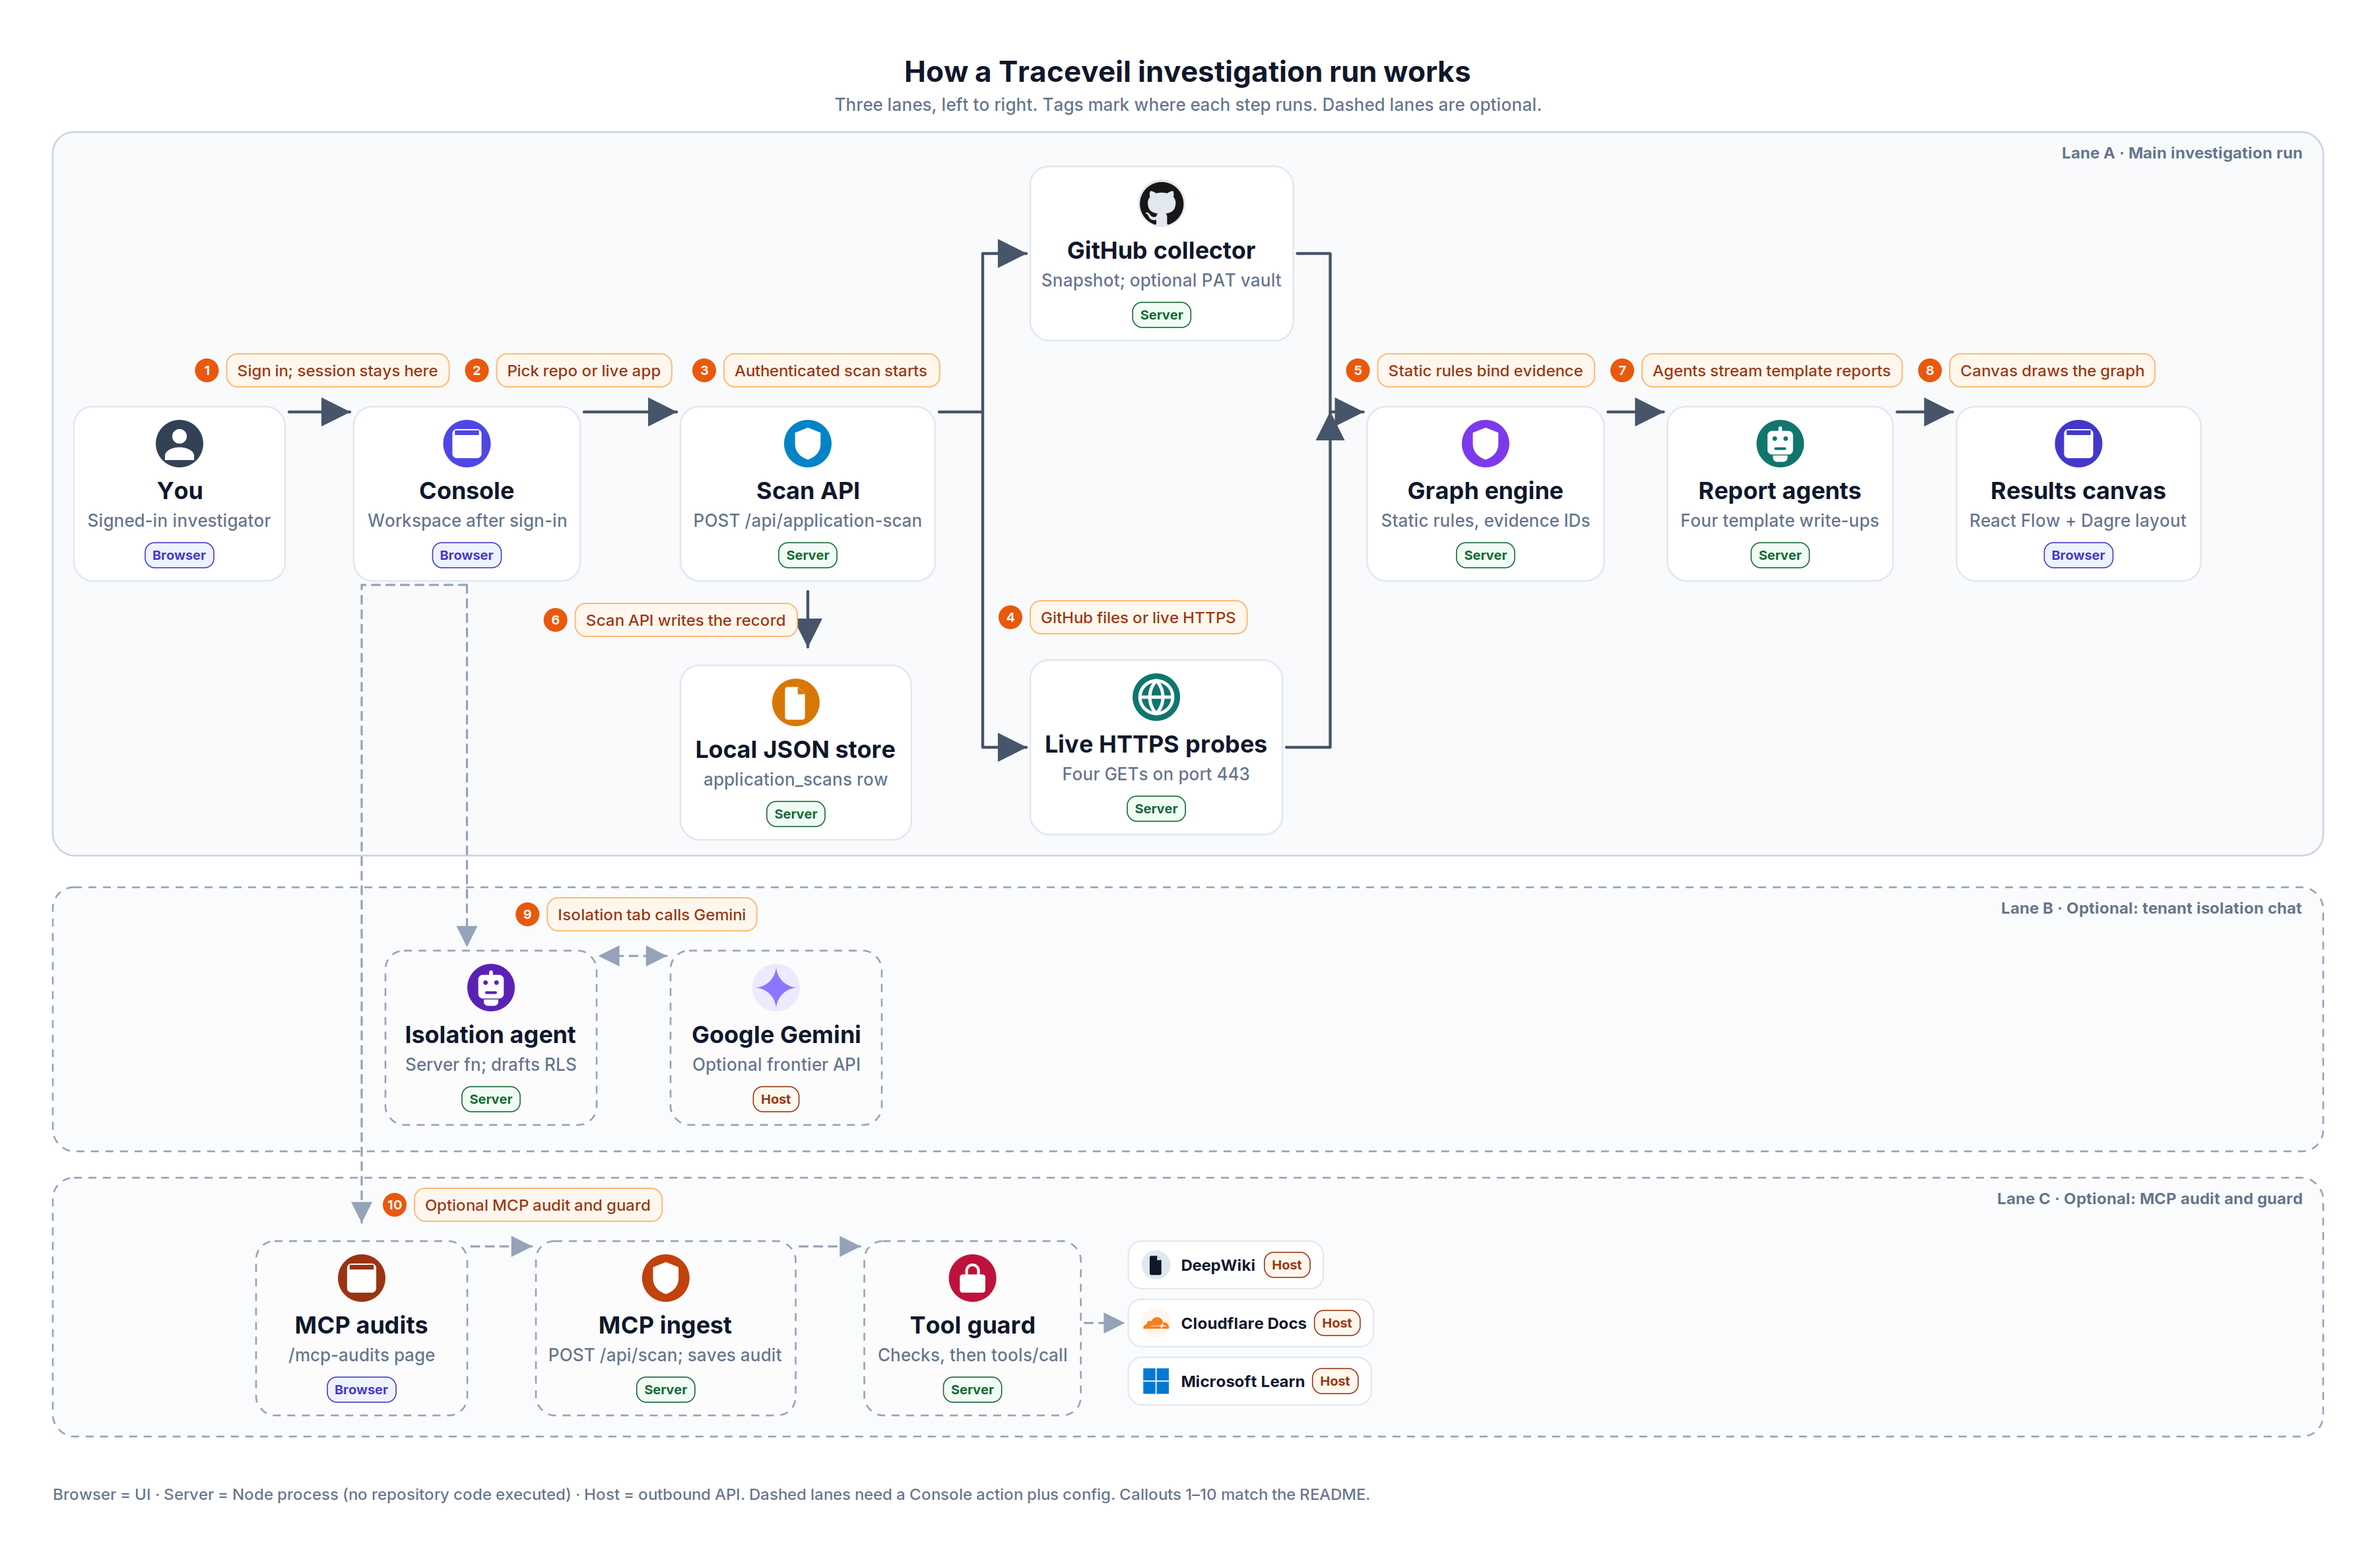
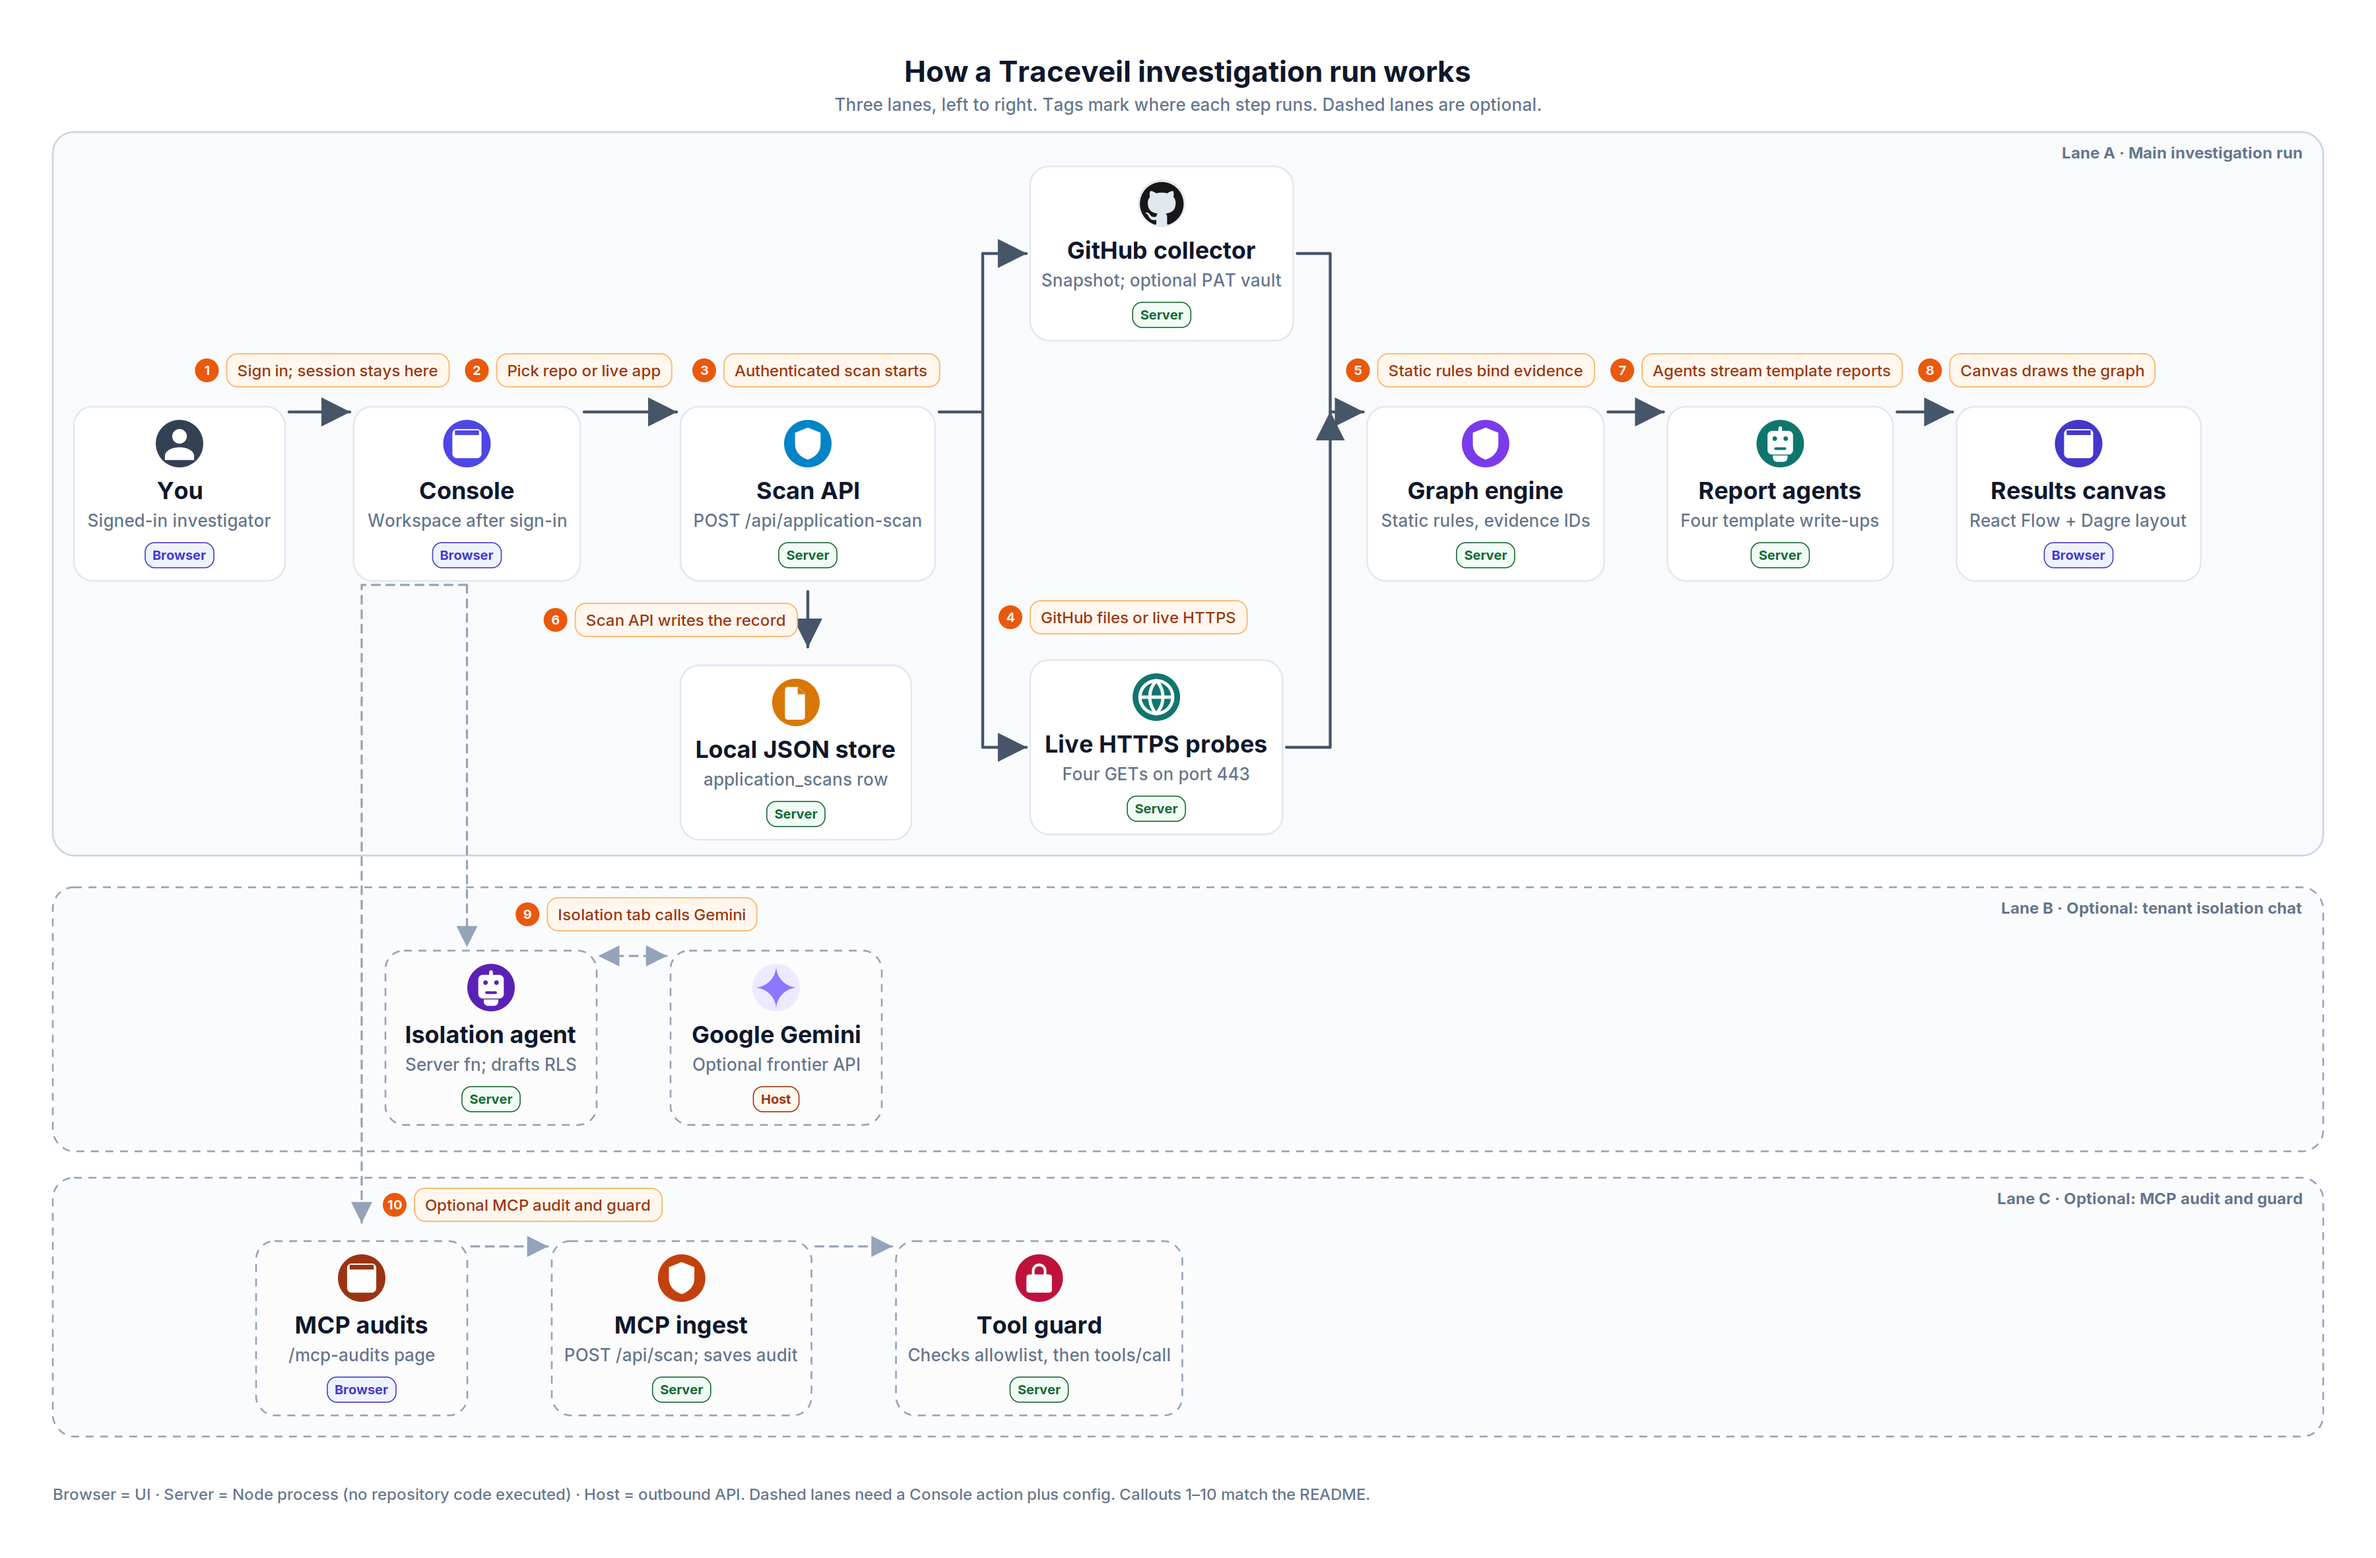
docs: end MCP architecture lane at Tool guard (#2)
Remove the DeepWiki, Cloudflare Docs, and Microsoft Learn chips and their
arrows so Lane C stops at Tool guard. Guard copy still states the allowlist
check before tools/call. Drop unused vendor icons from ATTRIBUTION.

diff --git a/docs/architecture/generate.py b/docs/architecture/generate.py
@@ -4,8 +4,8 @@
 Three horizontal lanes, each a left-to-right path. Browser vs server is a
 tag on each node, not a column. Style references are color/type quality only.
 
-Official product marks (GitHub, Gemini, Cloudflare, Microsoft) are vendored
-from Simple Icons. AI agents use a generic robot glyph, not a vendor logo.
+Official product marks (GitHub, Gemini) are vendored from Simple Icons.
+AI agents use a generic robot glyph, not a vendor logo.
 
 Run from the repo root:
 
@@ -44,7 +44,6 @@ STROKE = 2.2
 STROKE_DASH = 1.6
 TITLE_SIZE = 18
 SUB_SIZE = 13
-CHIP_SIZE = 12
 CALLOUT_SIZE = 12
 REGION_SIZE = 12
 TAG_SIZE = 10
@@ -142,8 +141,6 @@ def parse_icon_path(name: str) -> str:
 
 GITHUB_PATH = parse_icon_path("github.svg")
 GEMINI_PATH = parse_icon_path("googlegemini.svg")
-CLOUDFLARE_PATH = parse_icon_path("cloudflare.svg")
-MICROSOFT_PATH = parse_icon_path("microsoft.svg")
 
 USER_PATH = (
     "M12 12a4 4 0 1 0 0-8 4 4 0 0 0 0 8zm0 2c-4.4 0-8 2.1-8 4.7V21h16v-2.3C20 16.1 16.4 14 12 14z"
@@ -414,41 +411,6 @@ class Scene:
                 Rect(min(x1, x2) - pad, min(y1, y2) - pad, abs(x2 - x1) + STROKE, abs(y2 - y1) + STROKE, "arrow", f"{name}:{i}")
             )
 
-    def host_chip(
-        self,
-        x: float,
-        y: float,
-        title: str,
-        icon: list[tuple[str, str, str]],
-        icon_bg: str,
-        name: str,
-        trust: str,
-    ) -> Rect:
-        tw, th, ascent = measure(title, CHIP_SIZE, "semibold")
-        tag_tw, tag_th, tag_ascent = measure(trust, TAG_SIZE, "semibold")
-        tag_box_w, tag_box_h = tag_tw + 12, tag_th + 6
-        pad_x, pad_y = 10, 7
-        icon_r = 11
-        w = pad_x + icon_r * 2 + 8 + tw + 8 + tag_box_w + pad_x
-        h = pad_y + max(icon_r * 2, th, tag_box_h) + pad_y
-        card = self.round_rect(x, y, w, h, 10, CARD, CARD_BORDER, 1.1, None, name, "node")
-        mid_y = y + h / 2
-        self.icon_badge(x + pad_x + icon_r, mid_y, icon_r, icon_bg, icon, f"{name}:icon", name, 0.88)
-        self.text_box(
-            x + pad_x + icon_r * 2 + 8,
-            mid_y - th / 2 + ascent,
-            title,
-            CHIP_SIZE,
-            "semibold",
-            INK,
-            "start",
-            f"{name}:title",
-            name,
-        )
-        tag_x = x + w - pad_x - tag_box_w / 2
-        self.trust_tag(tag_x, mid_y - tag_box_h / 2, trust, name)
-        return card
-
 
 def build() -> Scene:
     s = Scene()
@@ -511,9 +473,6 @@ def build() -> Scene:
     ]
     lock_icon = [(LOCK_PATH, "#FFFFFF", "")]
     gemini_icon = [(GEMINI_PATH, "#8E75FF", "")]
-    cf_icon = [(CLOUDFLARE_PATH, "#F38020", "")]
-    ms_icon = [(MICROSOFT_PATH, "#0078D4", "")]
-    wiki_icon = [(FILE_PATH, "#0F172A", "")]
 
     # ----- Lane bands -----
     s.region(40, 100, 1720, 548, "Lane A  ·  Main investigation run", "lane-a")
@@ -558,15 +517,19 @@ def build() -> Scene:
         mcp_drop_x - 80, mcp_y, "MCP audits", "/mcp-audits page", window_icon, "#9A3412", "mcp-page", "Browser", True
     )
     mcp_scan = s.node_card(
-        mcp_page.r + 52, mcp_y, "MCP ingest", "POST /api/scan; saves audit", scan_icon, "#C2410C", "mcp-scan", "Server", True
+        mcp_page.r + 64, mcp_y, "MCP ingest", "POST /api/scan; saves audit", scan_icon, "#C2410C", "mcp-scan", "Server", True
     )
     guard = s.node_card(
-        mcp_scan.r + 52, mcp_y, "Tool guard", "Checks, then tools/call", lock_icon, "#BE123C", "guard", "Server", True
+        mcp_scan.r + 64,
+        mcp_y,
+        "Tool guard",
+        "Checks allowlist, then tools/call",
+        lock_icon,
+        "#BE123C",
+        "guard",
+        "Server",
+        True,
     )
-    host_x = guard.r + 36
-    deepwiki = s.host_chip(host_x, mcp_page.y, "DeepWiki", wiki_icon, "#E2E8F0", "deepwiki", "Host")
-    cloudflare = s.host_chip(host_x, deepwiki.b + 8, "Cloudflare Docs", cf_icon, "#FFF7ED", "cloudflare", "Host")
-    microsoft = s.host_chip(host_x, cloudflare.b + 8, "Microsoft Learn", ms_icon, "#EFF6FF", "microsoft", "Host")
 
     # ----- Lane A arrows (rail along the top of the spine cards so callouts sit just above) -----
     s.arrow([(you.r + 3, rail_a), (console.x - 3, rail_a)], "a1")
@@ -651,7 +614,6 @@ def build() -> Scene:
     )
     s.arrow([(mcp_page.r + 3, rail_c), (mcp_scan.x - 3, rail_c)], "d-mcp-1", True)
     s.arrow([(mcp_scan.r + 3, rail_c), (guard.x - 3, rail_c)], "d-mcp-2", True)
-    s.arrow([(guard.r + 3, cloudflare.cy), (cloudflare.x - 3, cloudflare.cy)], "d-mcp-hosts", True)
     c10_text = "Optional MCP audit and guard"
     c10_w, c10_h = s.callout_size(c10_text)
     c10_x = max(mcp_page.cx + 12, (mcp_page.r + mcp_scan.x) / 2 - c10_w / 2)

diff --git a/docs/architecture/ATTRIBUTION.md b/docs/architecture/ATTRIBUTION.md
@@ -6,10 +6,7 @@ Generated by `docs/architecture/generate.py`. Official product marks are vendore
 | --- | --- | --- | --- |
 | GitHub | GitHub collector / `api.github.com` | [Simple Icons](https://github.com/simple-icons/simple-icons/blob/11.14.0/icons/github.svg) `github.svg` (v11.14.0) | [CC0 1.0](https://creativecommons.org/publicdomain/zero/1.0/) |
 | Google Gemini | Optional `callFrontierModel` path | [Simple Icons](https://github.com/simple-icons/simple-icons/blob/11.14.0/icons/googlegemini.svg) `googlegemini.svg` (v11.14.0) | CC0 1.0 |
-| Cloudflare | Allowlisted MCP host `docs.mcp.cloudflare.com` | [Simple Icons](https://github.com/simple-icons/simple-icons/blob/11.14.0/icons/cloudflare.svg) (v11.14.0) | CC0 1.0 |
-| Microsoft | Allowlisted MCP host `learn.microsoft.com` | [Simple Icons](https://github.com/simple-icons/simple-icons/blob/11.14.0/icons/microsoft.svg) (v11.14.0) | CC0 1.0 |
 | Robot (generic) | Report agents and isolation agent | Drawn in `generate.py` | MIT (this repository) |
 | User, file, globe, lock, shield, window | Investigator, JSON store, live HTTPS, tool guard, scan/graph APIs, console/canvas | Drawn in `generate.py` (24×24 paths) | MIT (this repository) |
-| DeepWiki | Allowlisted MCP host `mcp.deepwiki.com` | Generic file glyph — no Simple Icons or vendor SVG found | — |
 
 Brand names are the marks of their owners. Diagram use here is descriptive, not an endorsement.

diff --git a/README.md b/README.md
@@ -65,7 +65,6 @@ flowchart LR
   console -.-> mcpPage[MCP audits]
   mcpPage -.-> mcpScan["POST /api/scan"]
   mcpScan -.-> guard["POST /api/guard"]
-  guard -.-> hosts[Allowlisted MCP hosts]
 ```
 
 </details>
